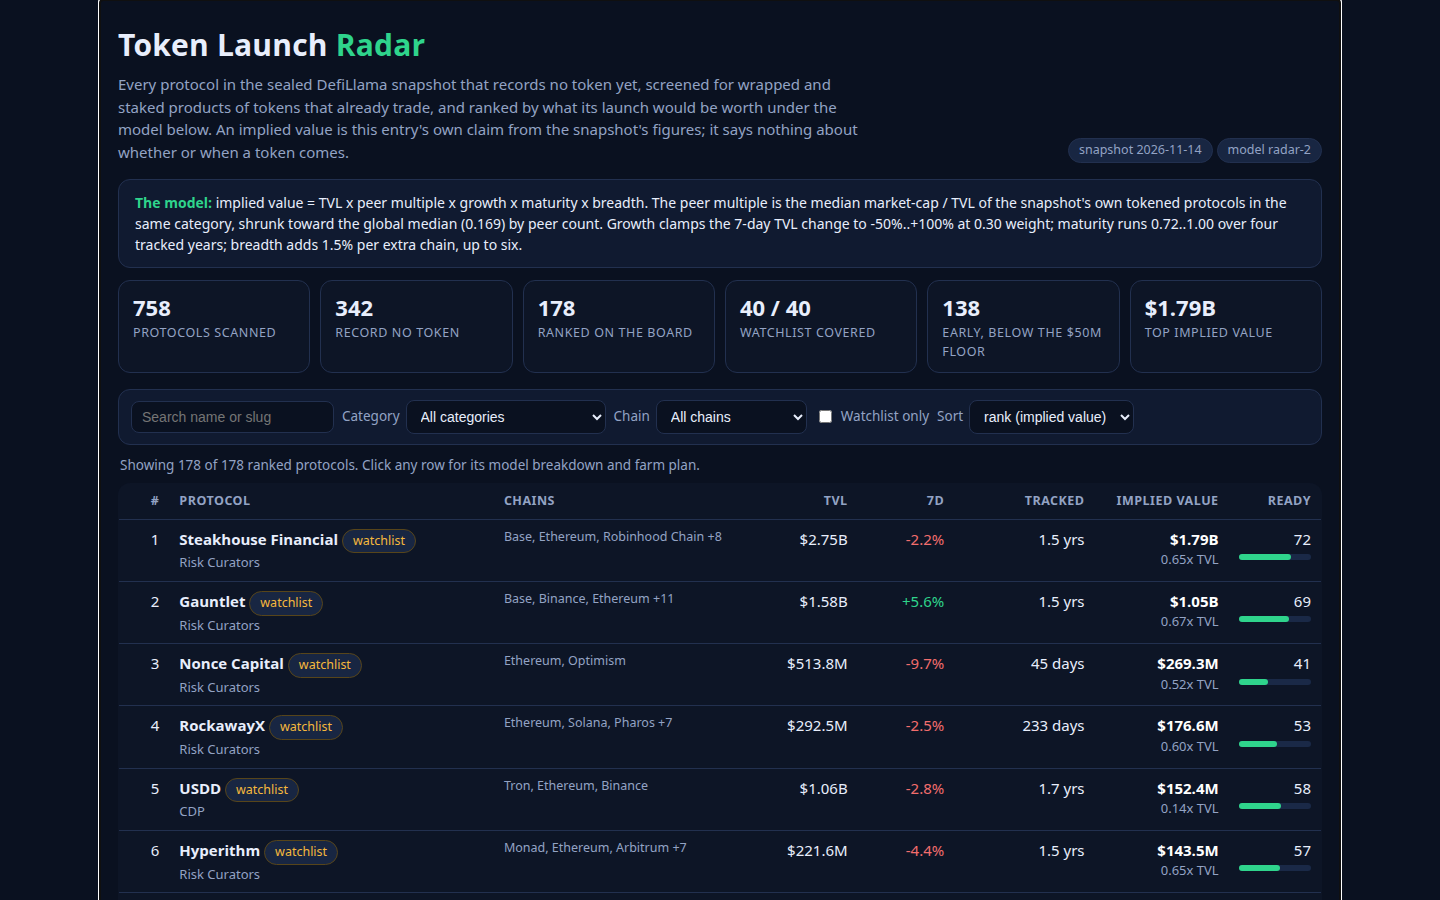
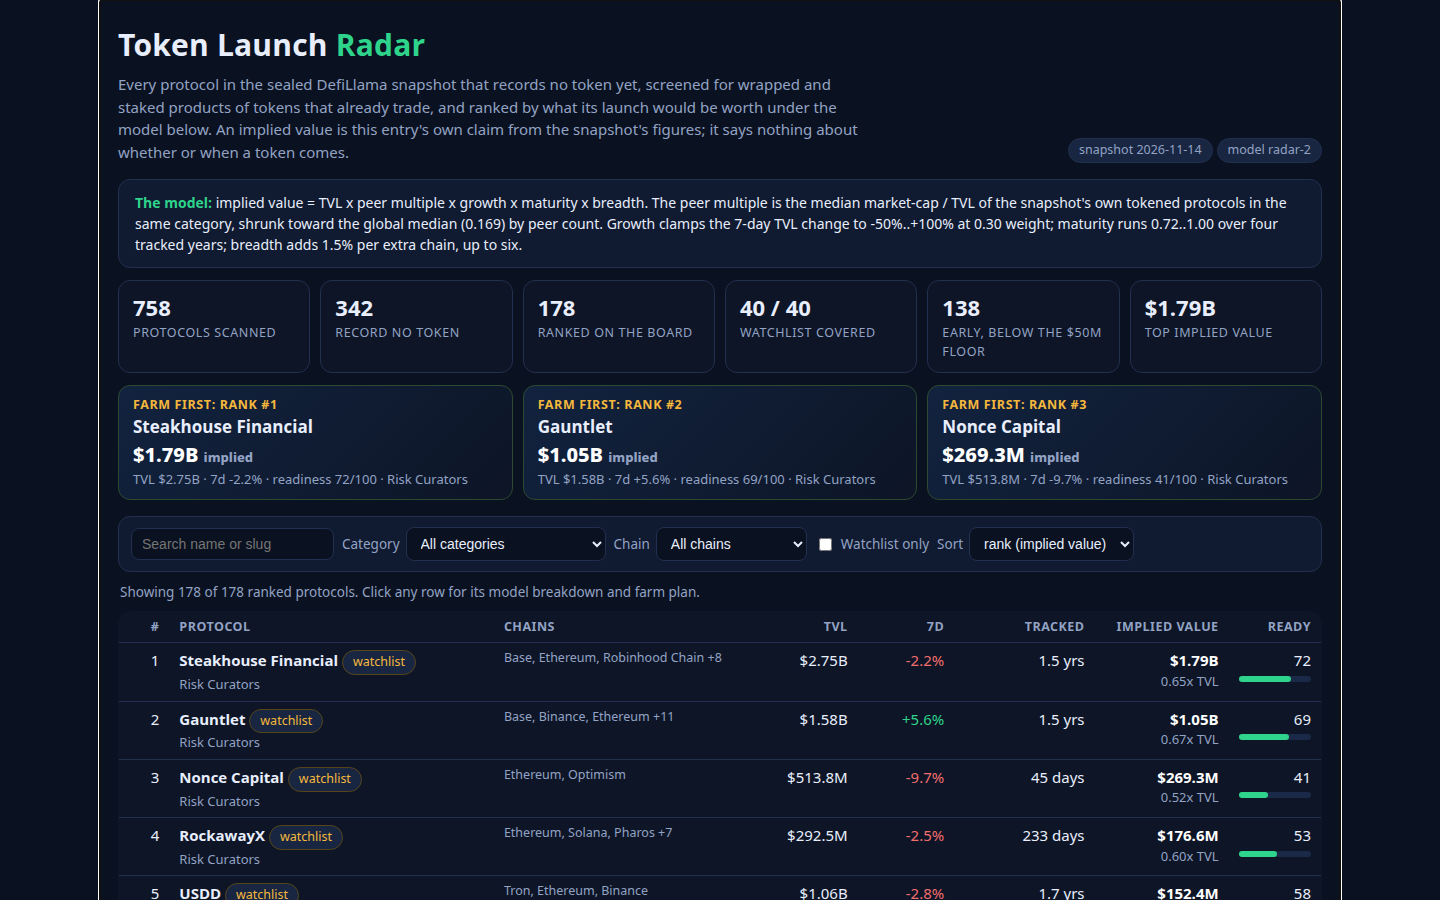
Polish radar for pairwise judging: farm-first spotlight, why-this-rank detail, specific farm steps
Board: Farm First top-3 spotlight cards (implied, TVL, 7d, readiness) and
tighter row density so the board scans in seconds. Detail: a verdict strip
(why this rank, why now, from the row's own figures) plus a Why-this-rank
section covering scale, peer pricing, timing and what would change the rank.
Farm plans: the weekly step is now the category's own repeat action, the
Friday check reconciles the points page against the farm log, and the exit
rule adds a 30% TVL-drop trigger. Model core (radar-2 implied values) is
unchanged: same 178 rows, same top-3. Screenshots recaptured in-session;
the filtered view now uses the Dexs filter (20 rows shown).

diff --git a/dashboard/app.js b/dashboard/app.js
@@ -77,7 +77,13 @@
       '<div class="stat"><div class="n">' + R.watchlist_size + ' / ' + R.watchlist_size + '</div><div class="l">watchlist covered</div></div>' +
       '<div class="stat"><div class="n">' + R.early_size + '</div><div class="l">early, below the $50M floor</div></div>' +
       '<div class="stat"><div class="n">' + money(R.rows.length ? R.rows[0].implied_value_usd : 0) + '</div><div class="l">top implied value</div></div>' +
-      '</div>'
+      '</div>' +
+      '<div class="spots">' + R.rows.slice(0, 3).map(function (r) {
+        return '<div class="spot" data-slug="' + esc(r.slug) + '"><div class="rk">Farm first: rank #' + r.rank + '</div>' +
+          '<div class="nm">' + esc(r.name) + '</div><div class="vl">' + money(r.implied_value_usd) + ' <span class="mt">implied</span></div>' +
+          '<div class="mt">TVL ' + money(r.tvl_usd) + ' · 7d ' + (r.change_7d == null ? 'no reading' : (r.change_7d >= 0 ? '+' : '') + r.change_7d.toFixed(1) + '%') +
+          ' · readiness ' + r.readiness + '/100 · ' + esc(r.category || 'Uncategorized') + '</div></div>';
+      }).join('') + '</div>'
     );
   }
 
@@ -193,6 +199,9 @@
     main.querySelectorAll('tr.row').forEach(function (tr) {
       tr.addEventListener('click', function () { location.hash = 'p/' + tr.getAttribute('data-slug'); });
     });
+    main.querySelectorAll('.spot').forEach(function (el) {
+      el.addEventListener('click', function () { location.hash = 'p/' + el.getAttribute('data-slug'); });
+    });
   }
 
   // Re-render only the table body and count after a control change, keeping the controls' focus.
@@ -233,6 +242,10 @@
       ' <span class="badge">rank #' + r.rank + ' of ' + R.board_size + '</span></div></div>' +
       '<p class="sub">' + esc(r.category || 'Uncategorized') + ' on ' + esc(r.chains.join(', ') || 'its main chain') +
       '. This protocol records no token in the snapshot of ' + esc(R.as_of) + ', so the radar prices the launch it has not had yet.</p>' +
+      '<div class="verdict"><b>Why rank #' + r.rank + ', why now:</b> ' + esc(r.name) + ' holds ' + money(r.tvl_usd) + ' of TVL with ' +
+      (r.change_7d == null ? 'no 7-day reading, so momentum is priced neutral' : 'a 7-day move of ' + (r.change_7d >= 0 ? '+' : '') + r.change_7d.toFixed(1) + '%, so momentum is ' + (r.change_7d >= 3 ? 'actively building' : r.change_7d >= 0 ? 'steady, not fading' : 'cooling, which the model already discounts')) +
+      '; it has been tracked for ' + ageText(r.age_days) + ' with no token, and its ' + esc(r.category || 'Uncategorized') + ' peers price launches at ' +
+      m.peer_multiple.toFixed(3) + 'x TVL against a global median of ' + R.global_median.toFixed(3) + 'x. That mix, not its name, is what puts it at rank #' + r.rank + ' of ' + R.board_size + '.</div>' +
       '<div class="grid">' +
       '<div class="card"><h3>Implied value</h3><div class="big">' + money(r.implied_value_usd) + '</div><div class="cat">' + (r.implied_value_usd / r.tvl_usd).toFixed(2) + 'x its TVL, under model ' + esc(R.model_version) + '</div></div>' +
       '<div class="card"><h3>TVL</h3><div class="big">' + money(r.tvl_usd) + '</div><div class="cat">7-day change ' + (r.change_7d == null ? 'not reported' : r.change_7d.toFixed(1) + '%') + '</div></div>' +
@@ -249,6 +262,12 @@
       '<tr><td>Breadth multiplier (' + r.chains.length + (r.chains.length === 1 ? ' chain' : ' chains') + ')</td><td class="num">x ' + m.breadth_multiplier.toFixed(3) + '</td></tr>' +
       '<tr><td><b>Implied value</b></td><td class="num"><b>' + money(r.implied_value_usd) + '</b></td></tr>' +
       '</tbody></table></section>' +
+      '<section class="block"><h2>Why this rank, in plain terms</h2><ul class="why">' +
+      '<li><b>Scale:</b> ' + money(r.tvl_usd) + ' of TVL is real usage a launch would have to price; the model values it at ' + (r.implied_value_usd / r.tvl_usd).toFixed(2) + 'x TVL, so the rank follows the multiple below, not raw size alone.</li>' +
+      '<li><b>Peer pricing:</b> ' + m.peer_count + ' tokened ' + esc(r.category || 'Uncategorized') + ' protocols in this same snapshot set the ' + m.peer_multiple.toFixed(3) + 'x multiple (global median ' + R.global_median.toFixed(3) + 'x), shrunk toward that median so a thin category cannot inflate this row.</li>' +
+      '<li><b>Timing:</b> ' + (r.change_7d == null ? 'no 7-day TVL reading is reported, so the growth multiplier stays neutral at x ' + m.growth_multiplier.toFixed(3) : 'TVL moved ' + (r.change_7d >= 0 ? '+' : '') + r.change_7d.toFixed(1) + '% in the snapshot week, giving a growth multiplier of x ' + m.growth_multiplier.toFixed(3)) + '; ' + ageText(r.age_days) + ' tracked with no token gives a maturity multiplier of x ' + m.maturity_multiplier.toFixed(3) + ', and ' + r.chains.length + (r.chains.length === 1 ? ' chain gives' : ' chains give') + ' a breadth multiplier of x ' + m.breadth_multiplier.toFixed(3) + '.</li>' +
+      '<li><b>What would change the rank:</b> a token announcement ends the thesis (exit by the farm plan rule); a sustained TVL drop lowers the growth term next snapshot; a richer peer multiple for ' + esc(r.category || 'Uncategorized') + ' would lift every pre-token row in the category, not just this one.</li>' +
+      '</ul></section>' +
       '<section class="block"><h2>How to farm it</h2>' +
       '<p>Six steps, each with what it costs and how long it takes, written for this protocol\'s category and first chain (' + esc(r.chains[0] || 'its main chain') + ').</p>' +
       '<ol class="steps">' + steps + '</ol></section>' +

diff --git a/lib/model.ts b/lib/model.ts
@@ -293,6 +293,20 @@ function actionFor(p: SnapshotProtocol, capital: number, chain: string): string 
   return `Deposit $${capital} of USDC into ${n} on ${chain} through its own app and keep the position open`;
 }
 
+/** The weekly qualifying action for a category: the repeat move that keeps a farm wallet eligible. */
+function weeklyFor(p: SnapshotProtocol, chain: string): string {
+  const c = (p.category ?? '').toLowerCase();
+  const n = p.name;
+  if (c.includes('lend') || c.includes('cdp') || c.includes('collateral')) return `top up the ${n} supply by a small amount or repay and re-borrow a slice, keeping utilisation under 40% of the limit on ${chain}`;
+  if (c.includes('dex') || c.includes('aggregator')) return `swap a small amount in both directions through ${n} and rebalance the liquidity position on ${chain}`;
+  if (c.includes('perpetual') || c.includes('derivative') || c.includes('basis')) return `open and close one small hedged position on ${n} (long spot, short perp of the same size) on ${chain}`;
+  if (c.includes('restak') || c.includes('staking')) return `stake a small top-up through ${n} and claim any staking reward into the same wallet on ${chain}`;
+  if (c.includes('bridge')) return `bridge a small amount through ${n} in the opposite direction and back, then use it once on ${chain}`;
+  if (c.includes('curator') || c.includes('allocator') || c.includes('yield')) return `add a small top-up to the ${n} vault and leave the combined shares untouched on ${chain}`;
+  if (c.includes('prediction')) return `take one small researched position in a liquid ${n} market and let the previous one settle`;
+  return `make one real deposit or withdrawal cycle in ${n} on ${chain}, sized like the first position, not dust`;
+}
+
 /** A protocol's farm plan: six concrete steps, each with its cost and its time, from its own record. */
 export function farmSteps(p: SnapshotProtocol, age: number | null): string[] {
   const chain = p.chains.length > 0 ? p.chains[0]! : 'its main chain';
@@ -303,10 +317,10 @@ export function farmSteps(p: SnapshotProtocol, age: number | null): string[] {
   const steps = [
     `Set up one fresh wallet for ${p.name} only, fund it on ${chain}, and reach the app from the protocol's verified profile, never from a search ad. Cost: about ${gasText} of gas for the first transaction. Time: 10 minutes.`,
     `${actionFor(p, capital, chain)}. Cost: $${capital} of capital plus about ${gasText} of gas. Time: 15 minutes to set up.`,
-    `Repeat one qualifying action every week (a deposit, a swap, a vote or a claim check) so the wallet shows a season of use, not a single day. Cost: about ${gasText} of gas a week, roughly $${(gas * Math.ceil(hold / 7)).toFixed(2)} across the ${hold}-day hold. Time: 10 minutes a week.`,
+    `Every week on the same weekday, ${weeklyFor(p, chain)}, so the wallet shows a season of use in ${p.name}, not a single day. Cost: about ${gasText} of gas a week, roughly $${(gas * Math.ceil(hold / 7)).toFixed(2)} across the ${hold}-day hold. Time: 10 minutes a week.`,
     `Hold the position for at least ${hold} days so the activity counts in more than one weekly snapshot, and do not split it across wallets. Cost: the $${capital} stays in the position for ${hold} days. Time: ${hold} days.`,
-    `Each Friday, open the protocol's own points or rewards page and claim only from the link that page publishes; never pay anyone to claim for you. Cost: nothing to check, about ${gasText} if a claim is live. Time: 5 minutes a week.`,
-    `Keep a farm log with the wallet, dates, amounts and transaction hashes, and set the exit rule now: unwind within a week of any token announcement unless the rules reward holding. Cost: nothing but the log. Time: 5 minutes.`,
+    `Each Friday, open ${p.name}'s own points or rewards page, compare its total against your farm log entry by entry, and claim only from the link that page publishes; never pay anyone to claim for you. Cost: nothing to check, about ${gasText} if a claim is live. Time: 5 minutes a week.`,
+    `Keep a farm log with the wallet, dates, amounts and transaction hashes, and set the exit rule now: unwind within a week of any ${p.name} token announcement unless the rules reward holding, and exit early if its TVL falls 30% from your entry week. Cost: nothing but the log. Time: 5 minutes.`,
   ];
   return steps.map((s) => (s.length > 600 ? `${s.slice(0, 596)}...` : s));
 }

diff --git a/dashboard/app.css b/dashboard/app.css
@@ -45,7 +45,19 @@ h1 .radar { color: var(--mint); }
 .controls label { color: var(--dim); font-size: 13.5px; display: flex; gap: 6px; align-items: center; }
 .count { color: var(--dim); font-size: 13.5px; margin: 4px 2px 8px; }
 table { width: 100%; border-collapse: collapse; background: var(--panel2); border: 1px solid var(--line); border-radius: 12px; overflow: hidden; }
-th, td { padding: 8px 10px; text-align: left; border-bottom: 1px solid var(--line); vertical-align: top; }
+th, td { padding: 6px 10px; text-align: left; border-bottom: 1px solid var(--line); vertical-align: top; }
+.spots { display: grid; grid-template-columns: repeat(auto-fit, minmax(280px, 1fr)); gap: 10px; margin-top: 12px; }
+.spot { background: linear-gradient(135deg, #12233f, var(--panel2)); border: 1px solid #2c4a2f; border-radius: 12px; padding: 10px 14px; cursor: pointer; }
+.spot:hover { border-color: var(--mint); }
+.spot .rk { color: var(--amber); font-size: 12.5px; font-weight: 700; text-transform: uppercase; letter-spacing: 0.6px; }
+.spot .nm { font-size: 17px; font-weight: 700; }
+.spot .vl { font-size: 20px; font-weight: 800; color: #fff; }
+.spot .mt { color: var(--dim); font-size: 13px; }
+.verdict { margin-top: 14px; background: #0e2417; border: 1px solid #2c4a2f; border-left: 4px solid var(--mint); border-radius: 10px; padding: 10px 14px; max-width: 980px; }
+.verdict b { color: var(--mint); }
+ul.why { margin: 8px 0 0; padding-left: 20px; max-width: 920px; }
+ul.why li { margin-bottom: 7px; }
+ul.why b { color: var(--ink); }
 th { color: var(--dim); font-size: 12.5px; text-transform: uppercase; letter-spacing: 0.5px; cursor: pointer; white-space: nowrap; }
 th:hover { color: var(--ink); }
 td.num, th.num { text-align: right; font-variant-numeric: tabular-nums; }
